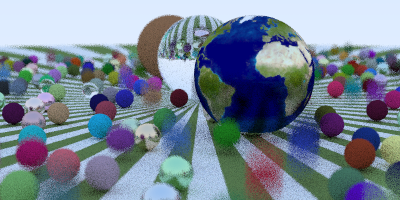
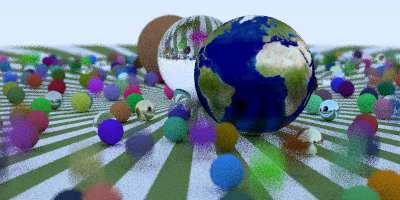
Multithreaded computation
The algorithm now computes no_samples/no_threads samples per thread.

Can theoratically reduce computation time by the number of physical threads on your machine.
Most machines should now render up to 4 times as fast! The more threads the better. For reference the example scene is now more than 3.2 times faster on my machine.

(Also, the random scene is now actually random. Whoops how did that even slip through 🤫)

diff --git a/main.cpp b/main.cpp
@@ -4,6 +4,7 @@
 #include <string>
 #include <cstdlib>
 #include <memory>
+#include <thread>
 
 #define STB_IMAGE_WRITE_IMPLEMENTATION
 #define STB_IMAGE_IMPLEMENTATION
@@ -26,15 +27,16 @@
 
 
 constexpr float MAX_FLOAT = 100.f;
-int max_bounces = 5;
+unsigned int max_bounces = 5, max_samples = 20;
+unsigned int width = 400, height = 200;
 
 using std::make_shared;
 
 bvh_node random_scene() {
     hittable_list world;
 
-    int width, height, channels;
-    auto texture = make_shared<image_texture>(stbi_load("earthmap.jpg", &width, &height, &channels, 0), width, height);
+    int tex_width, tex_height, channels;
+    auto texture = make_shared<image_texture>(stbi_load("earthmap.jpg", &tex_width, &tex_height, &channels, 0), tex_width, tex_height);
     auto checker = make_shared<checker_texture>(make_shared<const_texture>(vec3(0.2, 0.3, 0.1)), make_shared<const_texture>(vec3(0.9, 0.9, 0.9)), 300);
     world.add(make_shared<sphere>(vec3(0, -1000, 0), 1000, make_shared<lambertian>(checker)));
 
@@ -72,7 +74,7 @@ bvh_node random_scene() {
 }
 
 
-vec3 compute_color(const ray& r, const hittable& world, int bounces = 0) {
+vec3 compute_color(const ray& r, const hittable& world, unsigned int bounces = 0) {
     hit_record rec;
 
     // hit an object
@@ -90,19 +92,47 @@ vec3 compute_color(const ray& r, const hittable& world, int bounces = 0) {
         vec3 unit_direction = unit_vector(r.direction());
         double t = 0.5 * (unit_direction.y() + 1.0f);
         return (1.0 - t) * vec3(1.0, 1.0, 1.0) + // white contribution
-                        t * vec3(0.5, 0.7, 1.0);  // blue contribution
+                       t * vec3(0.5, 0.7, 1.0);  // blue contribution
+    }
+}
+
+void shoot_ray(unsigned char* result, const size_t& thread_no, const size_t& samples_per_thread, const camera& cam, const bvh_node& world) {
+    srand(static_cast<unsigned int>(time(nullptr) * (thread_no + 1)));
+
+    float u, v;
+    ray r;
+    vec3 color;
+    int index = 0;
+
+    for (size_t y = 0; y < height; y++) {
+        for (size_t x = 0; x < width; x++) {
+            color = vec3();
+            for (size_t sample_i = 0; sample_i < samples_per_thread; sample_i++) {
+                u = float(x + random_double()) / float(width);
+                v = float(height - (y + random_double())) / float(height);
+                r = cam.get_ray(u, v);
+                color += compute_color(r, world, 0);
+            }
+            color /= static_cast<float>(samples_per_thread);
+            color.output(result, &index);
+        }
     }
 }
 
 int main(int argc, char* argv[]) {
+    srand(static_cast<unsigned int>(time(nullptr)));
+
     constexpr int channels = 3;
     std::string filename = "output";
-    int width = 400; int height = 200, samples = 20;
     double fov = 20, aperture = 0.1, focus_dist = 10;
     vec3 cam_pos(13, 2, 3), look_at(0, 0, 0);
+    unsigned int max_threads = 0;
     for (size_t i = 0; i < argc; i++) {
         if (strcmp(argv[i], "-f") == 0)
-            filename = argv[i + 1];
+            filename = atoi(argv[i + 1]);
+
+        else if (strcmp(argv[i], "-t") == 0)
+            max_threads = atoi(argv[i + 1]);
 
         else if (strcmp(argv[i], "-w") == 0)
             width = atoi(argv[i + 1]);
@@ -110,7 +140,7 @@ int main(int argc, char* argv[]) {
             height = atoi(argv[i + 1]);
 
         else if (strcmp(argv[i], "-s") == 0)
-            samples = atoi(argv[i + 1]);
+            max_samples = atoi(argv[i + 1]);
         else if (strcmp(argv[i], "-b") == 0)
             max_bounces = atoi(argv[i + 1]);
 
@@ -128,48 +158,71 @@ int main(int argc, char* argv[]) {
             focus_dist = std::stof(argv[i + 1]);
     }
 
-    unsigned char* data = static_cast<unsigned char*>(malloc(static_cast<size_t>(width) * static_cast<size_t>(height) * static_cast<size_t>(channels)));
-    if (!data) {
-        std::cerr << "Failure to allocate on heap. Aborting." << std::endl;
-        return EXIT_FAILURE;
-    }
-    int index = 0;
-
-    std::cout << "Outputting to \"" << filename << ".png\" (" << width << "x" << height << ") at " << samples << " sppx." << std::endl
-              << max_bounces << " bounce(s) max." << std::endl;
-
-
-    std::chrono::steady_clock::time_point begin = std::chrono::steady_clock::now();
-
     float aspect_ratio = width / static_cast<float>(height);
-    float u, v;
-    ray r;
-    vec3 color;
-
     if (!focus_dist)
         focus_dist = (cam_pos - look_at).length();
     camera cam(cam_pos, look_at, vec3(0., 1., 0.), fov, aspect_ratio, aperture, focus_dist, 0, 1);
     auto world = random_scene();
 
+    unsigned int allocated_size = width * height * channels;
+    if (!max_threads)
+        max_threads = std::thread::hardware_concurrency();
+    if (max_samples < max_threads)
+        max_threads = max_samples;
 
-    for (size_t y = 0; y < height; y++) {
-        for (size_t x = 0; x < width; x++) {
-            color = vec3();
-            for (size_t sample_i = 0; sample_i < samples; sample_i++) {
-                u = float(x + random_double()) / float(width);
-                v = float(height - (y + random_double())) / float(height);
-                r = cam.get_ray(u, v);
-                color += compute_color(r, world, 0);
-            }
-            color /= static_cast<float>(samples);
-            color.output(data, &index);
+    std::vector<std::unique_ptr<std::thread>> threads_queue;
+    threads_queue.reserve(max_threads);
+    std::vector<unsigned char*> results;
+    results.reserve(max_threads);
+
+    
+    unsigned int samples_per_thread = max_samples / max_threads;
+    std::cout << "Outputting to \"" << filename << ".png\" (" << width << "x" << height << ") at " << samples_per_thread * max_threads << " sppx." << std::endl
+              << max_bounces << " bounce(s) max." << std::endl
+              << max_threads << " working thread(s) with " << samples_per_thread << " sample(s) per thread." << std::endl;
+
+    std::chrono::steady_clock::time_point begin = std::chrono::steady_clock::now();
+
+    std::unique_ptr<std::thread> buffer = nullptr;
+    for (size_t i = 0; i < max_threads; i++) {
+        // allocate mem for each thread
+        results.push_back(static_cast<unsigned char*>(malloc(allocated_size)));
+        if (!results[i]) {
+            std::cerr << "Failure to allocate on heap. Aborting." << std::endl;
+            return EXIT_FAILURE;
         }
+
+        buffer = std::make_unique<std::thread>(shoot_ray, results[i], i, samples_per_thread, cam, world);
+        threads_queue.push_back(move(buffer));
+    }
+
+    // waiting for ray gen to finish on all threads
+    for (size_t i = 0; i < max_threads; i++) {
+        threads_queue[i]->join();
+    }
+
+    // sum computation of each threads
+    unsigned char* data = static_cast<unsigned char*>(malloc(allocated_size));
+    if (!data) {
+        std::cerr << "Failure to allocate on heap. Aborting." << std::endl;
+        return EXIT_FAILURE;
+    }
+    int index = 0;
+    for (size_t i = 0; i < allocated_size; i++) {
+        unsigned int temp = 0;
+        for (size_t j = 0; j < max_threads; j++) {
+            temp += results[j][i];
+            //free(results[j]);
+        }
+
+        data[index++] = temp / max_threads;
     }
 
     std::chrono::steady_clock::time_point end = std::chrono::steady_clock::now();
     std::cout << std::endl << "Elapsed time: " << std::chrono::duration_cast<std::chrono::seconds> (end - begin).count() << "s." << std::endl;
 
     stbi_write_png(filename.append(".png").c_str(), width, height, channels, data, 0);
+    free(data);
 
     return EXIT_SUCCESS;
 }

diff --git a/camera.h b/camera.h
@@ -25,7 +25,7 @@ public:
         vertical = 2 * half_height * focus_dist * v;
     }
 
-    ray get_ray(const double& s, const double& t) {
+    ray get_ray(const double& s, const double& t) const {
         vec3 rd = lens_radius * random_in_unit_disk();
         vec3 offset = u * rd.x() + v * rd.y();
 

diff --git a/README.md b/README.md
@@ -12,12 +12,13 @@ Doesn't have any dependency and uses standard C++ code only, so it should easily
 ## Usage and command line options
 
 ```
-PathTracerInOneWE.exe [-f **filename** -w **width** -h **height** -s **samples per pixel** -b **max ray bounces** -fov **field of view** -cam **camera position** -look **camera look at position** -a **aperture** -focus **focus distance**]
+PathTracerInOneWE [-f **filename** -t **threads** -w **width** -h **height** -s **samples per pixel** -b **max ray bounces** -fov **field of view** -cam **camera position** -look **camera look at position** -a **aperture** -focus **focus distance**]
 ```
 
 #### Command line Options
 
 - **filename** *(-f)*: Output filename without file extension (the program will automatically add .png). Default value: "output".
+- **threads** *(-t)*: Numbers of threads on which to run the rendering. If **samples per pixel** < **threads**, processor utilization will not be maximized. If set to 0, will equal the number of physical threads exposed by your machine. Default value: 0
 - **width** *(-w)*: Viewport width in pixels. Default value: 400
 - **height** *(-h)*: Viewport height in pixels. Default value: 200
 - **samples per pixel** *(-s)*: Self-explanatory. Dramatically affects rendering time. Default value: 50
@@ -26,15 +27,15 @@ PathTracerInOneWE.exe [-f **filename** -w **width** -h **height** -s **samples p
 - **camera position** *(-cam)*: Three consecutive floats for the camera position. Default value: 0 0 0
 - **camera look at position** *(-look)*: Three consecutive floats for the point the camera is pointing at. Default value: 0 0 -1
 - **aperture** *(-a)*: The aperture size of the lens (float). Default value: 0
-- **focus distance** *(-focus)*: Any object at this distance will be in focus (float). If set to 0 will equal the distance between the camera and the look at point. Default value: 0
+- **focus distance** *(-focus)*: Any object at this distance will be in focus (float). If set to 0, will equal the distance between the camera and the look at point. Default value: 0
 
 Example command line and resulting output:
 ```
-PathTracerInOneWE.exe -s 30 -b 50 -fov 50 -cam -2 2 -3 -look 0 0 -1 -w 1280 -h 720
+PathTracerInOneWE -s 40 -b 50 -fov 50 -cam -2 2 -3 -look 0 0 -1 -w 1280 -h 720
 ```
 ![Example Output](https://github.com/TaoSc/PathTracerInOneWE/raw/master/example.png)
 
-*Rendering time: 73s (Core i5-4440@3.30 GHz)*
+*Rendering time: 33s (Core i5-4440@3.30 GHz)*
 
 ## References
 My project uses stb_image_write.h to save the result image to png and stb_image.h to load texture images: 
